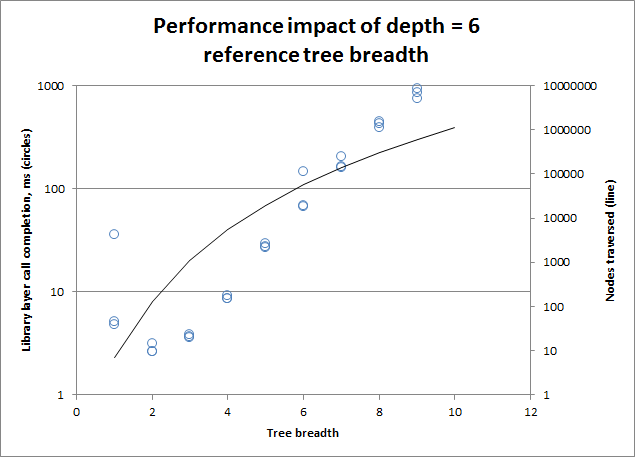
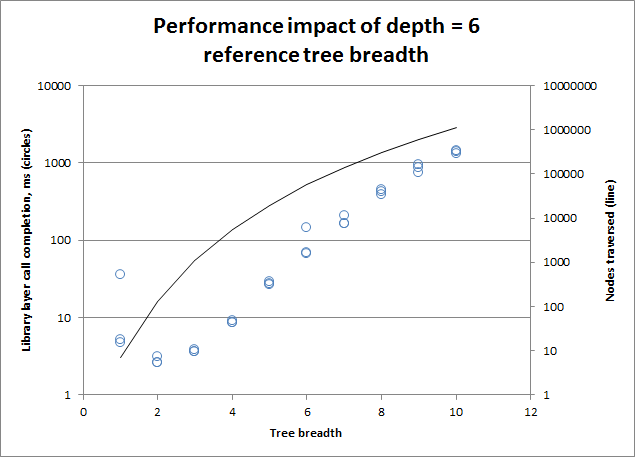
Update graphs with last datapoint

diff --git a/ReferenceBFSexperiment.md b/ReferenceBFSexperiment.md
@@ -53,8 +53,6 @@ time scales linearly with the tree size with trees > 5000 nodes.
 
 ![Branched search tree completion time per object](branchedtimeperobject.png)
 
-TODO update graph
-
 Discussion
 ----------
 
@@ -104,4 +102,4 @@ TODOs for production
 * Possibly a cache, but this seems unnecessary as a 50k node tree search
   returns in < 100ms. A short term (< 10s) cache of unaccessible objects might
   be advisable to guard against repeated requests. Placing a reasonable limit
-  on the search tree size seems to be an acceptable solution.
+  (50K?) on the search tree size seems to be an acceptable solution.
